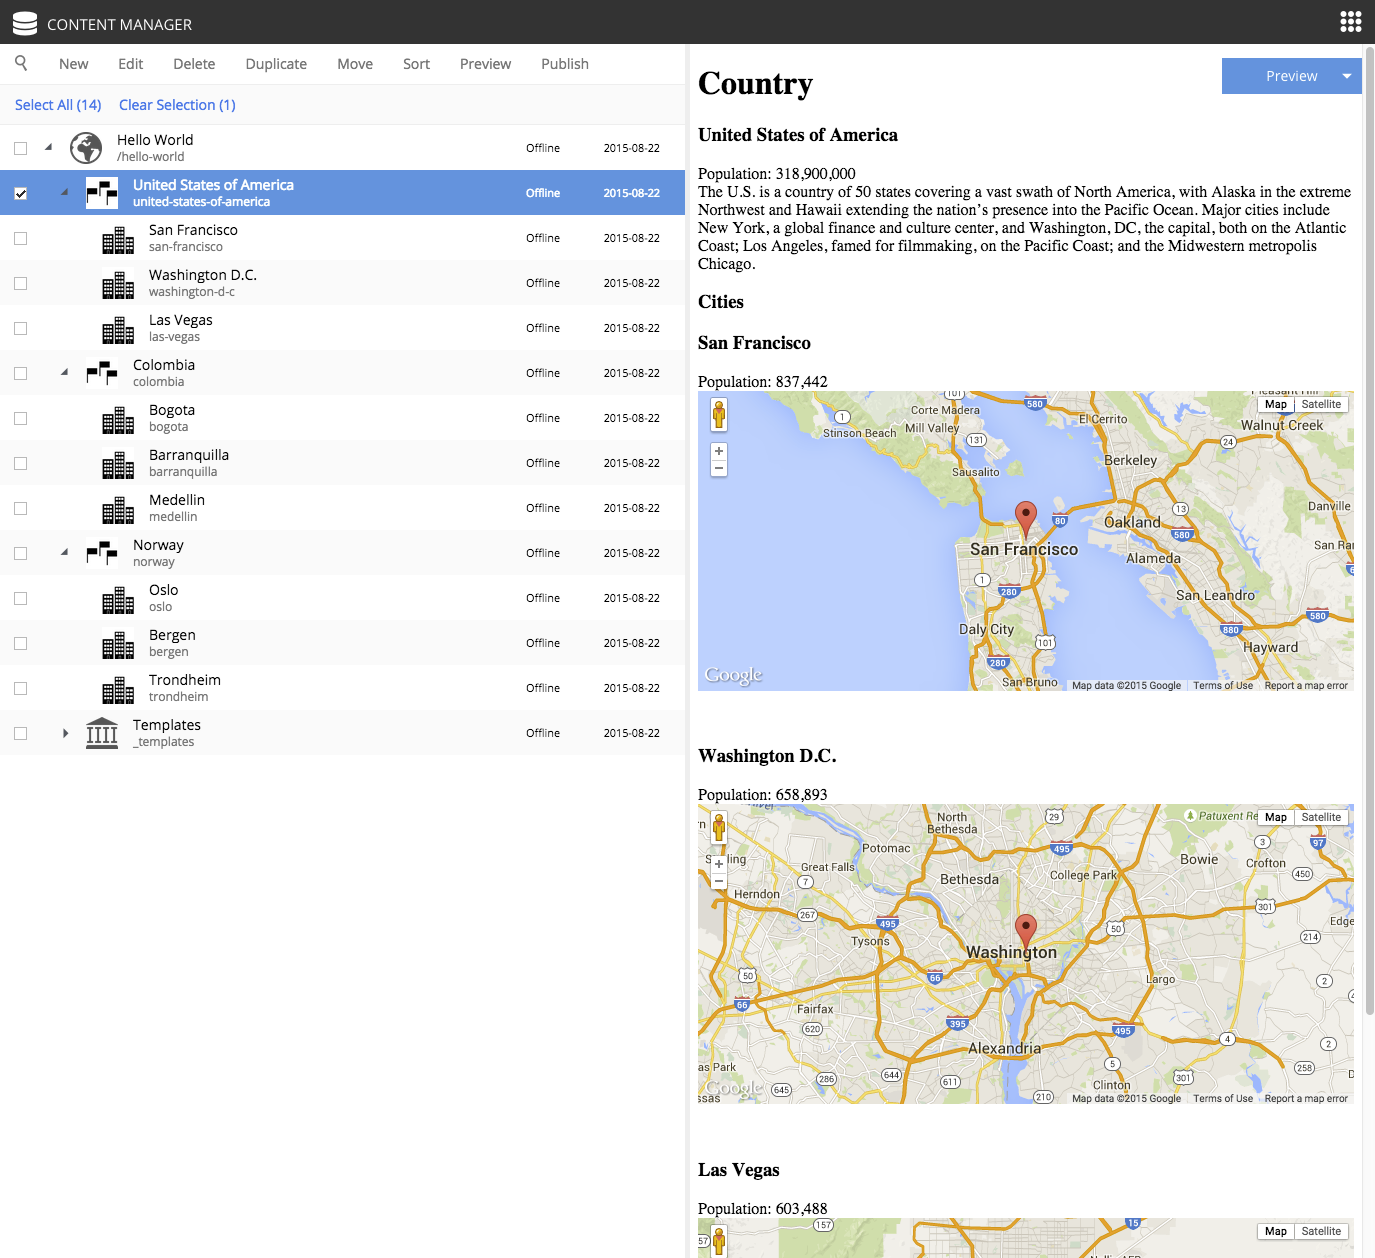
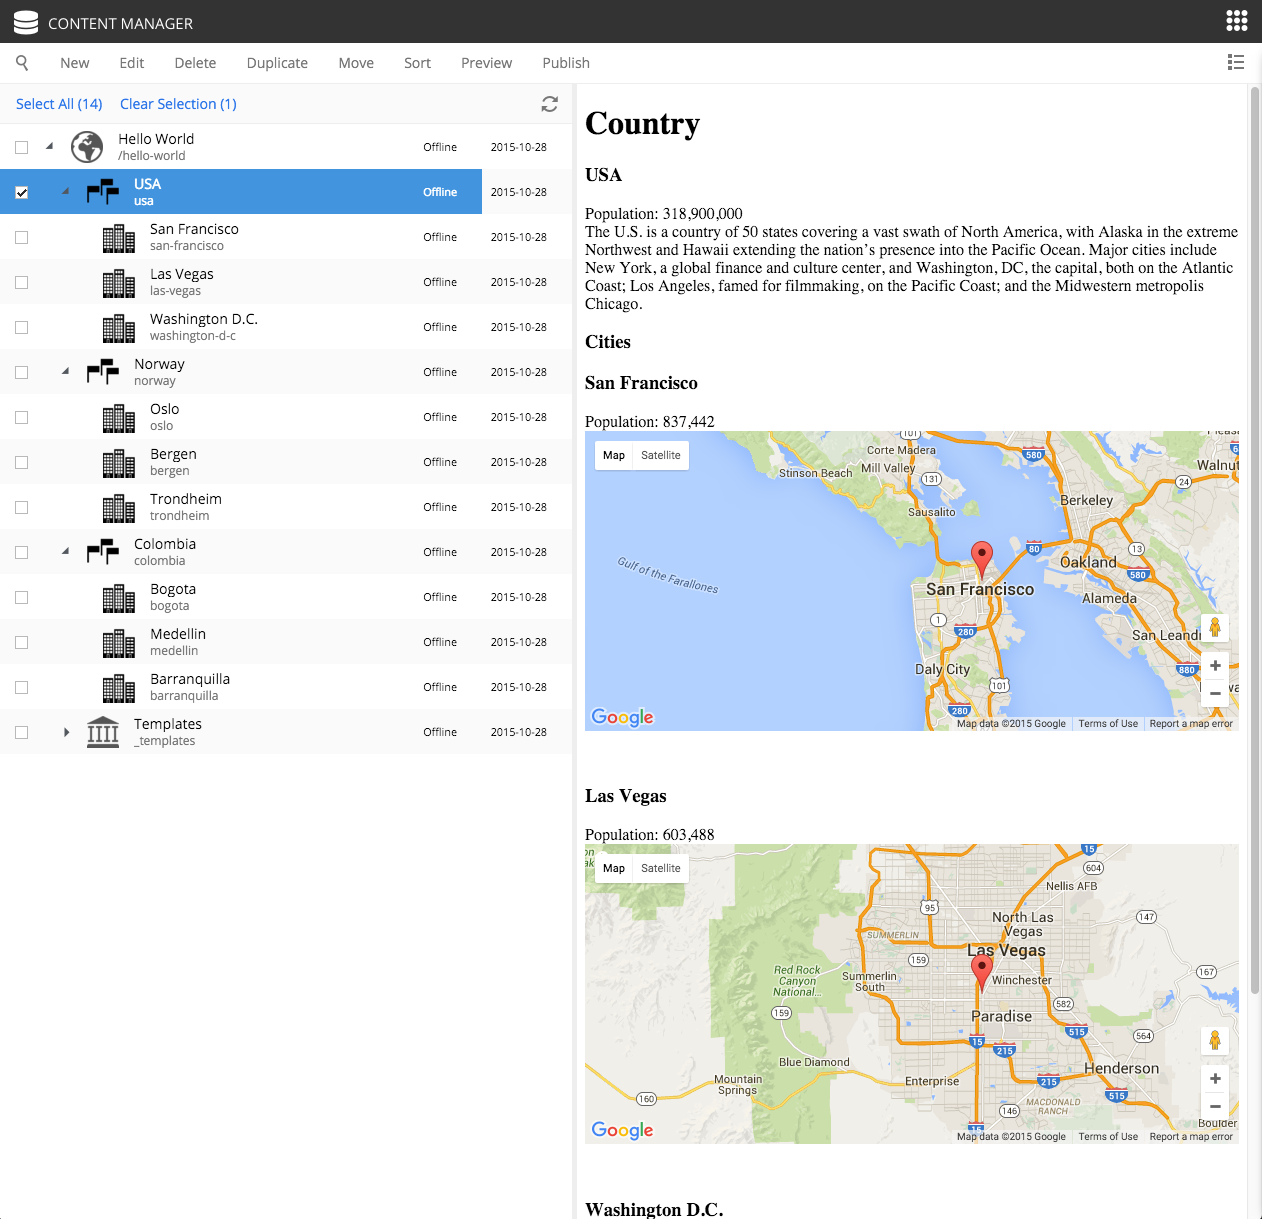
Update my-first-app to match changes in 6.1.

Changed region(s): [[0.0, 0.0, 1.0, 1.0], [0.8962, 0.9664, 0.9889, 1.0]]

diff --git a/doc/developer/my-first-app/page-templates.rst b/doc/developer/my-first-app/page-templates.rst
@@ -2,6 +2,7 @@ The Country Page Template
 =========================
 
 .. |cogicon| image:: images/icon-cog.png
+.. |monitoricon| image:: images/icon-monitor.png
 
 With our current solution, sadly, we'll have to create a new page for every country we add.
 As this is not a very effective way of working with large data sets, we will create a page template to simplify the process.
@@ -13,18 +14,19 @@ As this is not a very effective way of working with large data sets, we will cre
   * Display Name: "Country"
   * Supports: "Country" (selected from the list of content types)
 
-4. In the Live Edit panel on the right, select the "Hello Region" controller.
-5. Open the context panel (activated from the cog button |cogicon| in the toolbar).
+4. If the blue Page Editor panel is not displayed on the right, click the |monitoricon| button in the toolbar. Then select the "Hello
+   Region" controller with the dropdown.
+5. Open the Inspection Panel (activated from the cog button |cogicon| in the toolbar).
 6. Under the "Insert" tab, drag and drop a "Part" into the empty region.
-7. Select the "country" part from the dropdown. (You may need to close the context panel to see the dropdown.)
+7. Select the "country" part from the dropdown. (You may need to close the Inspection Panel to see the dropdown.)
 8. Click "Save draft" in the toolbar and close the tab.
 
 Every "Country" content you create will now use this template by default.
 
 .. TIP:: The "Support" property is the key. A page template will support rendering of the content types specified here.
 
-- Try this out by creating a few new countries in your site. Make sure you click the "Hello World" site before clicking "New" in the
-  toolbar. Every content you create will exist as a child of the content that is selected in the content pane.
+Try this out by creating a few new countries in your site. Make sure you select the "Hello World" site before clicking "New" in the
+toolbar. Every content you create will be a child of the content that was selected in the content pane.
 
 
 Extra task
@@ -34,10 +36,10 @@ Extra task
 
 You might remember that your favorite country was "hardcoded" - so let's change it to use templates as well.
 
-#. In the Content pane, select the country and click "Edit".
-#. In Live Edit view, click on the page. A box should appear with the name of the country. If the word "country" appears in the box then
-   you have selected the part. In that case, click the "Parent" button twice.
-#. Open the context panel (cog button |cogicon|) and select "Automatic" from under the "Renderer" label. (It's under the "Inspect" tab)
+#. In the Content pane, double click the country content to edit it.
+#. Click on the page in the Page Editor. A context menu should appear with the name of the country. If the word "country" appears in the box
+   then you have selected the part. In that case, click the "Parent" button twice.
+#. Open the Inspection Panel (cog button |cogicon|) and select "Automatic" from under the "Renderer" label. (It's under the "Inspect" tab)
 #. Save draft and close the tab.
 
 You can select another `Page template` at any time, or even customize the presentation of a single content.

diff --git a/doc/developer/my-first-app/add-favorite-country.rst b/doc/developer/my-first-app/add-favorite-country.rst
@@ -2,6 +2,7 @@ Add your favorite country
 =========================
 
 .. |cogicon| image:: images/icon-cog.png
+.. |monitoricon| image:: images/icon-monitor.png
 
 Now that the "Country" content type is installed (and we have a part to display them), we can create
 new countries using the :ref:`content-content-manager`.
@@ -12,17 +13,19 @@ new countries using the :ref:`content-content-manager`.
 
 Similar to the site, we must also configure a view for the country
 
-4. In the toolbar, in the top right corner of the page, click the "Live"-button to activate the "Live Edit"-mode (blue background).
-5. Click the cog button |cogicon| to open the Context panel (far right).
+4. In the toolbar, in the top right corner of the page, click the button with the monitor icon |monitoricon| to activate the Page Editor
+   (blue background).
+
+5. Click the cog button |cogicon| to open the Inspection Panel (far right).
 
 .. image:: images/country-content-edit.png
 
-6. In the Live Edit panel, select "Hello Region" from the template selector dropdown. If the dropdown arrow is not visible, double-click
-   inside the option field or type "h" in it to see the options.
-#. In the Context panel, click the "Insert" tab. This reveals a list of built-in components that can be placed into regions.
+6. In the Page Editor, select "Hello Region" from the template selector dropdown. If the dropdown arrow is not visible, double-click
+   inside the option field or start typing "hello world" in it to see the options.
+#. In the Inspection Panel, click the "Insert" tab. This reveals a list of default components that can be placed into regions.
 #. Click and drag a "Part" into the box on the page.
-#. A new dropdown option will appear. Select the "country" part. (You can start typing "Country" in the box or you may need to close the
-   Context panel to see the dropdown.)
+#. A new dropdown option will appear. Select the "country" part. (You can start typing "country" in the box or you may need to close the
+   Inspection Panel to see the dropdown.)
 #. Save draft and close the content edit tab.
 
 When you click on the country in the content pane, you should see a preview of the rendered page, something like this:

diff --git a/doc/developer/my-first-app/create-cities.rst b/doc/developer/my-first-app/create-cities.rst
@@ -6,18 +6,20 @@ Create Cities
 Now let's make use of the new city content type and part component. First we need to add the "City list" part to the "Country" page template.
 
 #. Edit the "Country" page template.
-#. Open the context panel by clicking the cog button |cogicon| in the toolbar.
-#. Click and drag a `Part` to the page region below the "country" part. (This may be a bit tricky because the "country" part is small.)
-#. Select the "City list" part from the dropdown in the box. You may need to close the context panel to see it.
+#. Open the Inspect Panel by clicking the cog button |cogicon| in the toolbar.
+#. Under the Insert tab, click and drag a `Part` to the page region below the "country" part. (This may be a bit tricky because the
+   "country" part is small.)
+#. Select the "City list" part from the dropdown in the box. You may need to close the Inspection Panel to see it.
 #. Save and close the tab.
 
-Now we need to create a few City contents below a selected country. (Sample data is available in the table below.)
+Now we need to create a few City contents below the countries. (Sample data is available in the table below.)
 
-#. From the content pane, select a country content that you created earlier. It is important that the city content be created under the country.
-#. Right-click on the country content and select "New". The "Create content" dialogue will open.
+#. From the content pane, select a country content that you created earlier. It is important that each city content is created under the
+   country.
+#. Right-click the country content and select "New". The "Create content" dialogue will open.
 #. Now select "City" from the list of content types.
 #. Fill in the city name and location; the population is optional. The location format must be comma separated latitude and longitude
-   with decimals. Do not select a page template from the dropdown on the right.
+   with decimals.
 #. Save draft.
 #. Create several more city contents below each country content by repeating the previous steps. Sample data is provided in the table below.
 

diff --git a/doc/developer/my-first-app/pro-tips.rst b/doc/developer/my-first-app/pro-tips.rst
@@ -5,7 +5,7 @@ Handling Multiple projects
 --------------------------
 
 A **best practice** for working on multiple projects would involve keeping a separate XP_HOME folder for each project.
-The folder structure for such a set up would look something like this::
+The folder structure for such a setup would look something like this::
 
   /Users/<name>/development
   /Users/<name>/development/software/<xp-install-version>
@@ -24,6 +24,9 @@ An actual implementation with projects called my-first-app and company-site woul
 This allows you to have one Enonic XP installation for each version and as many different XP_HOME folders as you need for your projects.
 When switching from one project to another, you only have to change the XP_HOME environment variable and then restart the installation of
 the Enonic XP version that the project was created for.
+
+Check this `Enonic Labs article <http://labs.enonic.com/articles/working-with-multiple-xp-projects>`_ for a more in-depth process. It also
+includes some bash scripting that will help with setting and changing $XP_HOME and starting and stopping XP.
 
 
 Logging JSON objects
@@ -56,5 +59,5 @@ Using Gradle continuous-mode
 ----------------------------
 
 It can be quite time consuming to frequently switch to the terminal to redeploy an app during development. Try using ``./gradlew -t deploy``
-in the terminal (from the project root) to **automatically redeploy** your app every time a change to a file is detected. The $XP_HOME
-environment variable must be set in the terminal window. 
+in the terminal (from the project root) to **automatically redeploy** your app every time a change to a file is detected. Gradle 2.7 or
+newer must be used and the $XP_HOME environment variable must be set in the terminal window for this to work.

diff --git a/doc/developer/my-first-app/hello-world-site.rst b/doc/developer/my-first-app/hello-world-site.rst
@@ -1,6 +1,9 @@
 Create the Hello World Site
 ===========================
 
+.. |monitoricon| image:: images/icon-monitor.png
+.. |appsicon| image:: images/icon-apps.png
+
 Our next goal is to set up a "Hello World" site in the Content Manager app,
 but first we must add some initial configuration to our project.
 
@@ -54,12 +57,12 @@ Create Site
 Now that the files are in place, we can create the site in the Administration console :ref:`content-content-manager` admin app. You can
 switch between admin apps with the button on the far right of the toolbar that looks like a square made of dots.
 
-#. In your browser, navigate to the Content Manager admin app. (Use the square dots icon in the toolbar to switch between admin apps.)
+#. In your browser, navigate to the Content Manager admin app. (Use the square dots icon |appsicon| in the toolbar to switch between admin apps.)
 #. Click "New" and select "Site" from the list of content types. This opens a tab within the page for editing the `site` content.
 #. Fill in the form with Display Name: "Hello World".
 #. Select your "MyApp" application in the "Applications" dropdown.
-#. In the top right corner is a button that looks like a computer screen, click it!
-#. In the dropdown on the blue area that now appeared, select the "hello" page.
+#. Open the Page Editor with this button |monitoricon| in the toolbar.
+#. Use the dropdown in the blue area that just appeared to select the "hello" page.
 #. Click the "Save draft" button in the toolbar (top-left).
 #. Now close the "Hello World" site editor tab to see the content pane.
 

diff --git a/doc/developer/my-first-app/go-online.rst b/doc/developer/my-first-app/go-online.rst
@@ -4,13 +4,13 @@ Go Online
 Now that your "Hello World" is complete, it's time to publish.
 
 #. Select the "Hello World" site in the content pane
-#. Select "Publish" from the right-click menu, or click the "Publish" button in the toolbar
+#. Right-click and select "Publish" from the context menu, or click the "Publish" button in the toolbar
 #. The Publishing Wizard will appear. Check the "Include children" checkbox
 #. Verify that all your items are listed  - click "Publish"!
 
 When publishing content, all the selected items and changes are "cloned" from draft to the master branch (:ref:`node-domain-repository`).
 
-You will always see the draft version of content in the preview window and with the preview function of the :ref:`content-content-manager`.
+You will always see the draft version of content in the preview window and the Page Editor of the :ref:`content-content-manager`.
 If you have placed your site on root level, you can also see your live site at this url:
 ``http://localhost:8080/portal/master/hello-world``.
 

diff --git a/doc/developer/my-first-app/country-part.rst b/doc/developer/my-first-app/country-part.rst
@@ -3,11 +3,12 @@ Create the Country Part
 =======================
 
 We also need a way to present a country - because every country wants to be seen.
-This time, rather than just making another page controller, we will create a :ref:`part` component. Parts are reusable components that can be added to pages containing "regions" - more on this later.
+This time, rather than just making another page controller, we will create a :ref:`part` component. Parts are reusable components that can
+be added to pages containing "regions" - more on this later.
 
 
 #. Create a folder called "country" inside the "parts" folder in your project.
-#. Add the part **controller** and **view** files in the "country" folder:
+#. Add the part **controller** and **view** files below to the "country" folder:
 
 .. literalinclude:: code/country-part/country1.js
   :language: javascript

diff --git a/doc/developer/my-first-app/configure-city-part.rst b/doc/developer/my-first-app/configure-city-part.rst
@@ -7,8 +7,8 @@ The `City list` part descriptor (site/parts/city-list/city-list.xml) has configu
 the default values for these inputs by editing the `City list` part in the `Country` page template.
 
 #. Open the `Country` page template for editing.
-#. Open the context panel by clicking the cog button |cogicon| in the toolbar.
-#. Click on the `City list` part in the Live Edit panel. (The `Inspect` tab should open.)
+#. Open the Inspection Panel by clicking the cog button |cogicon| in the toolbar.
+#. Click on the `City list` part in the Page Editor panel. (The `Inspect` tab should open.)
 #. Set the Map type to "Hybrid" and Zoom level to 12 with the form inputs in the context panel.
 #. Save draft and close the edit tab.
 

diff --git a/doc/developer/my-first-app/adding-countries.rst b/doc/developer/my-first-app/adding-countries.rst
@@ -10,7 +10,7 @@ The content type defines the form (and underlying schema) of items you manage.
 
 1. Create a folder called "country" inside the "content-types" folder of your project.
 
-2. Add the Country content type file below to this folder:
+2. Add the Country content type file below to this folder.
 
 .. literalinclude:: code/content-types/country1.xml
   :language: xml
